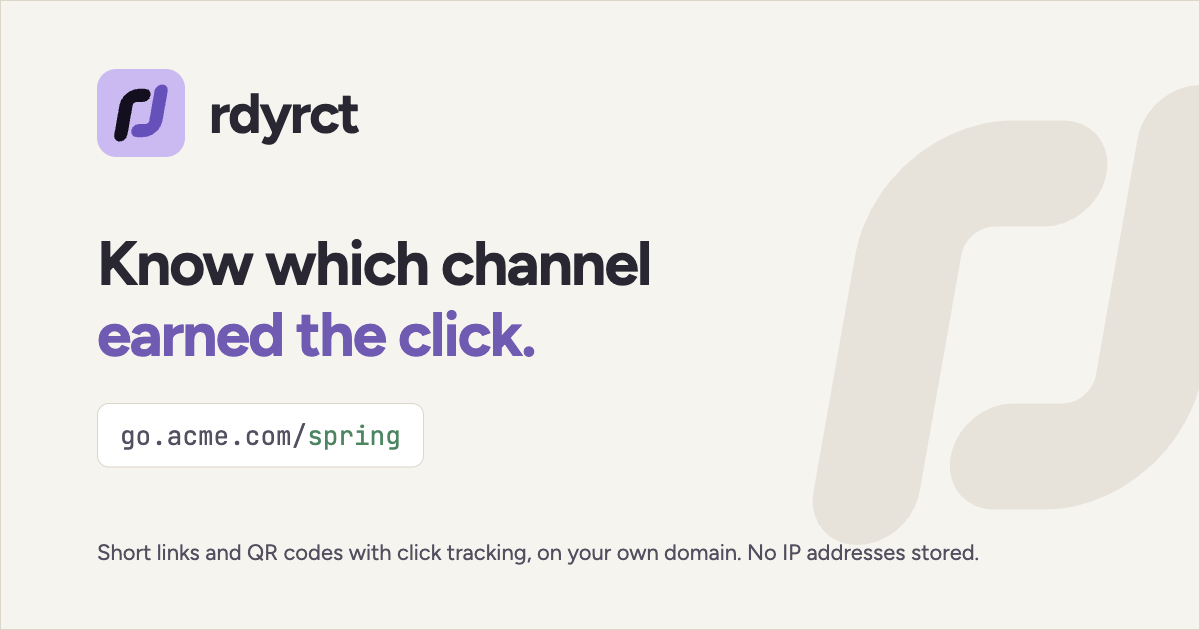
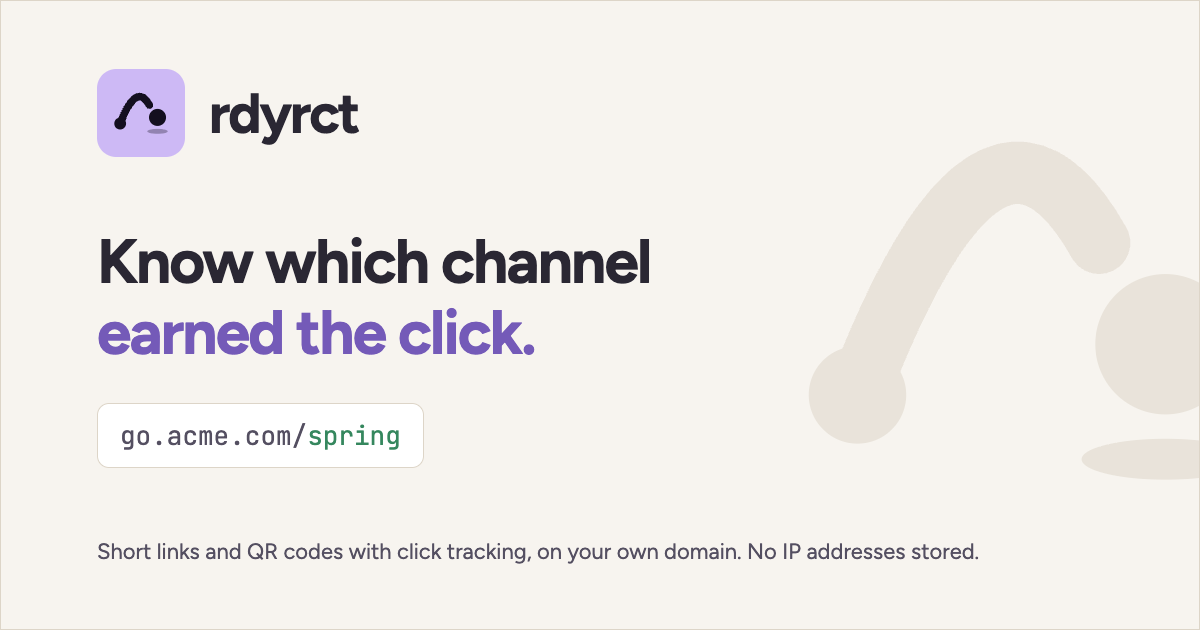
Brand: back to the Hop
The Loop and the Hooks both read as less than the Hop did. Restores the
Hop mark everywhere it was swapped out: logo.tsx, favicon, logo.svg,
connector icon, email logo, OG image and the rdyrct-design mark section.

diff --git a/src/app/ui/logo.tsx b/src/app/ui/logo.tsx
@@ -1,27 +1,25 @@
 import { cn } from "./cn";
 
 /**
- * The Hooks mark without its tile: two rounded corners hooked into each
- * other and leaning forward. The first is the r, the pair is a chain link,
- * and from far away the two strokes read as the // of a URL. The r takes the
- * text colour and its partner the accent, so it follows the theme. The tiled
- * version is the favicon and app icon (public/favicon.svg,
+ * The Hop mark without its tile: a click leaves one place, arcs, and lands.
+ * The arc takes the text colour and the landing dot the accent, so it follows
+ * the theme. The tiled version is the favicon and app icon (public/favicon.svg,
  * public/connector-icon.svg); next to the word, the tile would be a second
  * box around one name.
  */
 function LogoMark({ className }: { className?: string }) {
   return (
-    <svg viewBox="3 3 26 26" aria-hidden="true" className={cn("h-[1em] w-auto", className)}>
-      <g
-        transform="translate(2.8 0) skewX(-10)"
+    <svg viewBox="3.6 7 23.6 17.8" aria-hidden="true" className={cn("h-[0.9em] w-auto", className)}>
+      <path
+        d="M6.6 20Q13.4 2.2 19 12.2"
         fill="none"
-        strokeWidth="6"
+        stroke="currentColor"
+        strokeWidth="3.2"
         strokeLinecap="round"
-        strokeLinejoin="round"
-      >
-        <path d="M8.6 26V12.6a4.6 4.6 0 0 1 4.6-4.6H16" stroke="currentColor" />
-        <path d="M23.4 6V19.4a4.6 4.6 0 0 1-4.6 4.6H16" className="stroke-accent" />
-      </g>
+      />
+      <circle cx="6.6" cy="20" r="2.5" fill="currentColor" />
+      <circle cx="22.4" cy="17.4" r="3.6" className="fill-accent" />
+      <ellipse cx="22.4" cy="23.3" rx="4.3" ry="1.05" className="fill-border" />
     </svg>
   );
 }

diff --git a/scripts/og-image.html b/scripts/og-image.html
@@ -66,7 +66,7 @@
         padding: 68px 96px 64px;
       }
 
-      /* The Hooks mark without its tile, oversized and bled off the right
+      /* The Hop mark without its tile, oversized and bled off the right
          edge. Recessive: it frames, it does not compete. */
       .watermark {
         position: absolute;
@@ -142,18 +142,17 @@
     </style>
   </head>
   <body>
-    <svg class="watermark" viewBox="3 3 26 26" aria-hidden="true">
-      <g
-        transform="translate(2.8 0) skewX(-10)"
+    <svg class="watermark" viewBox="3.6 7 23.6 17.8" fill="currentColor" aria-hidden="true">
+      <path
+        d="M6.6 20Q13.4 2.2 19 12.2"
         fill="none"
         stroke="currentColor"
-        stroke-width="6"
+        stroke-width="3.2"
         stroke-linecap="round"
-        stroke-linejoin="round"
-      >
-        <path d="M8.6 26V12.6a4.6 4.6 0 0 1 4.6-4.6H16" />
-        <path d="M23.4 6V19.4a4.6 4.6 0 0 1-4.6 4.6H16" />
-      </g>
+      />
+      <circle cx="6.6" cy="20" r="2.5" />
+      <circle cx="22.4" cy="17.4" r="3.6" />
+      <ellipse cx="22.4" cy="23.3" rx="4.3" ry="1.05" />
     </svg>
 
     <div class="brand">

diff --git a/src/worker/email-layout.ts b/src/worker/email-layout.ts
@@ -103,7 +103,7 @@ function codeBlock(code: string): SafeHtml {
   return emailHtml`<div class="code" style="margin:24px 0;padding:16px;border:1px solid ${LIGHT.border};border-radius:8px;background:${LIGHT.surface2};font-family:${CODE_FONT};font-size:30px;font-weight:700;letter-spacing:6px;text-align:center;color:${LIGHT.text}">${code}</div>`;
 }
 
-/** The brand band across the top of every email: the Hooks mark and the
+/** The brand band across the top of every email: the Hop mark and the
  * wordmark, outlined from Figtree Bold, on a band that stays dark in both
  * themes. The image's alt text carries the word in the same colour if a client
  * blocks images. */

diff --git a/tests/e2e/public-pages.pw.ts b/tests/e2e/public-pages.pw.ts
@@ -598,7 +598,7 @@ test("the homepage's first Tab is a skip link into main", async ({ page }) => {
   await expect(page.getByRole("main")).toHaveAttribute("id", "main");
 });
 
-// The Hooks mark sits next to the name in the header and the footer. The mark is
+// The Hop mark sits next to the name in the header and the footer. The mark is
 // decoration, so the link still reads as the bare name to a screen reader and
 // to every test that finds it by "rdyrct".
 test("header and footer carry the logo, named by the word alone", async ({ page }) => {

diff --git a/.claude/skills/rdyrct-design/SKILL.md b/.claude/skills/rdyrct-design/SKILL.md
@@ -69,14 +69,12 @@ Both themes are equal. Neither is the afterthought. Style through tokens only, s
 
 ## The mark
 
-The Hooks: two thick rounded corners hooked into each other, leaning forward. The first is the r, the pair is a chain link, and from far away the two strokes read as the `//` of a URL. Two paths, so it animates simply: the hooks slide in from either side and lock.
-
-Keep the hooks apart (the gap is what makes them two pieces) and keep the lean. Upright, it loses its motion; closed up, it turns into a square ring like a QR finder.
+The Hop: a small dot leaves, an arc carries it, a gap, and a larger dot lands with a flat shadow under it. A click going from a short link to its destination. Keep the dot; an arrowhead in its place turns it into the redo icon.
 
 - **In the interface, use `Logo`** (`src/app/ui/logo.tsx`): the glyph and the word, sized by the font size it sits in. Never retype the name in bold or tracked caps as a brand.
 - **No tile next to the word.** The lavender tile belongs to places where the mark stands alone: the favicon (`public/favicon.svg`), the app and connector icon (`public/connector-icon.svg`), the OG image.
-- **Colour follows the theme.** In the interface the r takes `currentColor` and its partner `stroke-accent`. On the tile they are `#140f1f` and `#6a4fc0` on `#cdb9f5`.
-- **At 24px and below use the small cut**: heavier strokes and less margin, so the gap between the hooks stays open. `favicon.svg` is that cut.
+- **Colour follows the theme.** In the interface the arc and launch dot take `currentColor`, the landing dot `fill-accent` and the shadow `fill-border`. On the tile the ink is `#140f1f` on `#cdb9f5`, shadow `#9283b1`.
+- **At 24px and below use the small cut**: a thicker arc, bigger dots, no shadow. `favicon.svg` is that cut. The full mark turns to mush at 16px.
 - **The wordmark** in the static files (`public/logo.svg`, `public/email-logo.png`) is Figtree 700 at −3.5% tracking, converted to outlines so it renders without the font. In the app it is live text in the same face.
 
 ## Components
